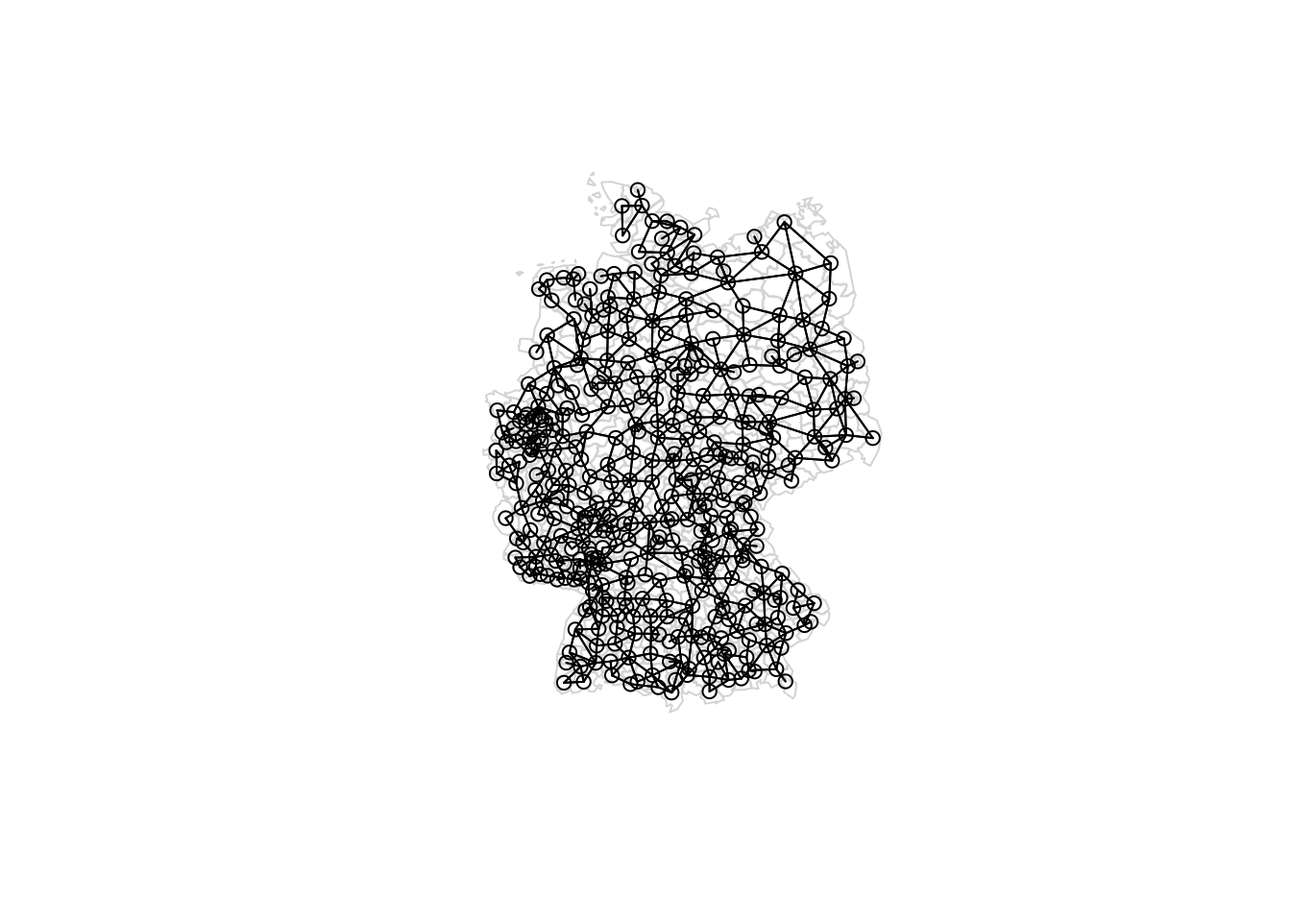
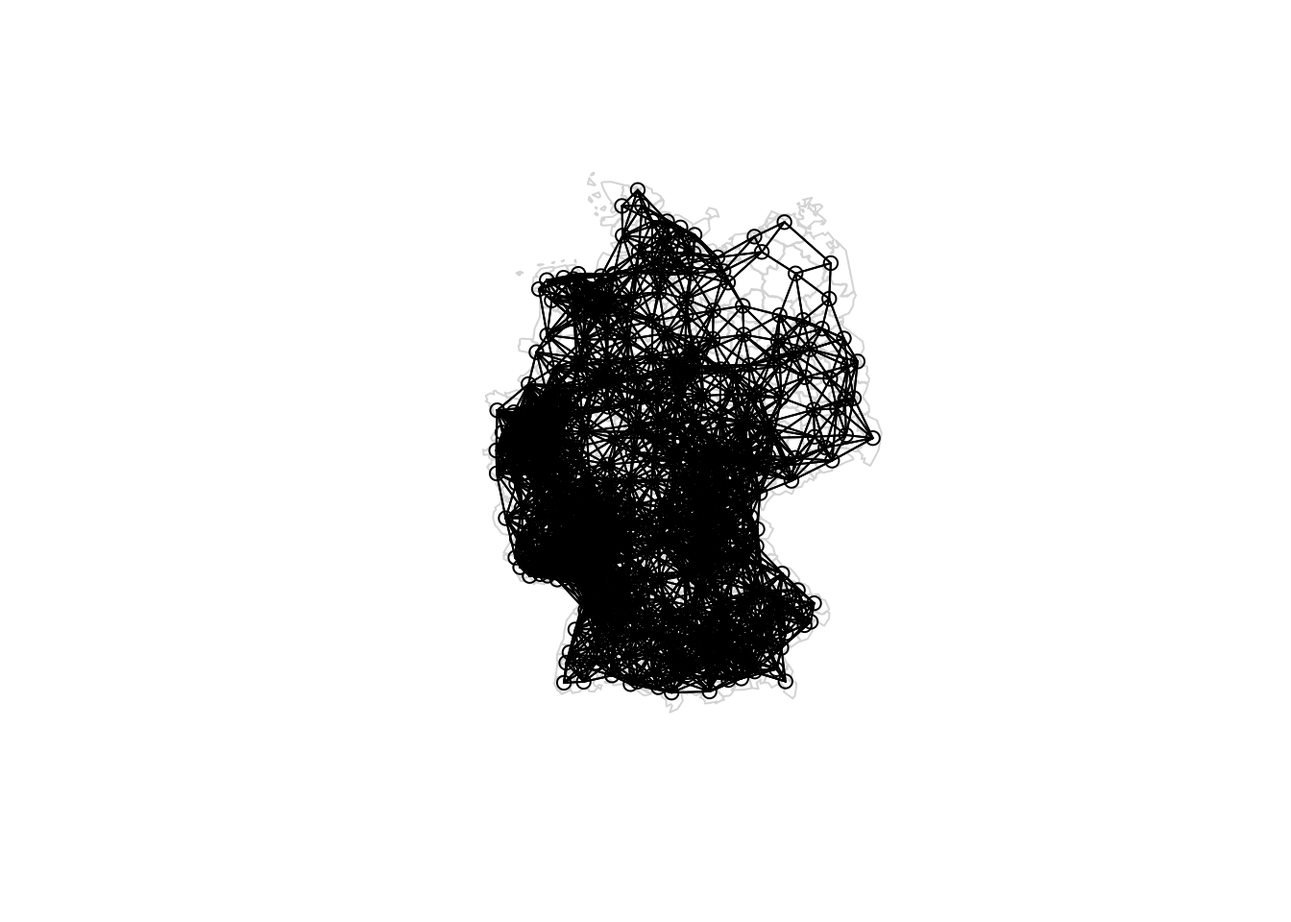
Deploying to gh-pages from @ gamlss-dev/gamlss2@70eed62983476a516c863f73c7ee43bc8b4943df 🚀

Changed region(s): [[0.375, 0.2188, 0.6875, 0.75]]

diff --git a/vignettes/spatial.html b/vignettes/spatial.html
@@ -402,6 +402,7 @@ div.csl-indent {
   <li><a href="#constructing-the-penalty-matrix" id="toc-constructing-the-penalty-matrix" class="nav-link" data-scroll-target="#constructing-the-penalty-matrix">Constructing the Penalty Matrix</a></li>
   <li><a href="#estimating-the-model" id="toc-estimating-the-model" class="nav-link" data-scroll-target="#estimating-the-model">Estimating the Model</a></li>
   <li><a href="#visualizing-the-estimated-effects" id="toc-visualizing-the-estimated-effects" class="nav-link" data-scroll-target="#visualizing-the-estimated-effects">Visualizing the Estimated Effects</a></li>
+  <li><a href="#prediction" id="toc-prediction" class="nav-link" data-scroll-target="#prediction">Prediction</a></li>
   </ul>
 </nav>
     </div>
@@ -482,17 +483,9 @@ div.csl-indent {
 package with: `install.packages('spDataLarge',
 repos='https://nowosad.github.io/drat/', type='source')`</code></pre>
 </div>
-<div class="sourceCode cell-code" id="cb6"><pre class="sourceCode r code-with-copy"><code class="sourceCode r"><span id="cb6-1"><a href="#cb6-1" aria-hidden="true" tabindex="-1"></a>nb <span class="ot">&lt;-</span> <span class="fu">poly2nb</span>(Germany)</span></code><button title="Copy to Clipboard" class="code-copy-button"><i class="bi"></i></button></pre></div>
-<div class="cell-output cell-output-stderr">
-<pre><code>Warning in poly2nb(Germany): some observations have no neighbours;
-if this seems unexpected, try increasing the snap argument.</code></pre>
-</div>
-<div class="cell-output cell-output-stderr">
-<pre><code>Warning in poly2nb(Germany): neighbour object has 4 sub-graphs;
-if this sub-graph count seems unexpected, try increasing the snap argument.</code></pre>
-</div>
-<div class="sourceCode cell-code" id="cb9"><pre class="sourceCode r code-with-copy"><code class="sourceCode r"><span id="cb9-1"><a href="#cb9-1" aria-hidden="true" tabindex="-1"></a><span class="fu">plot</span>(<span class="fu">st_geometry</span>(Germany), <span class="at">border =</span> <span class="st">"lightgray"</span>)</span>
-<span id="cb9-2"><a href="#cb9-2" aria-hidden="true" tabindex="-1"></a><span class="fu">plot.nb</span>(nb, <span class="fu">st_geometry</span>(Germany), <span class="at">add =</span> <span class="cn">TRUE</span>)</span></code><button title="Copy to Clipboard" class="code-copy-button"><i class="bi"></i></button></pre></div>
+<div class="sourceCode cell-code" id="cb6"><pre class="sourceCode r code-with-copy"><code class="sourceCode r"><span id="cb6-1"><a href="#cb6-1" aria-hidden="true" tabindex="-1"></a>nb <span class="ot">&lt;-</span> <span class="fu">dnearneigh</span>(<span class="fu">st_centroid</span>(<span class="fu">st_geometry</span>(Germany)), <span class="at">d1 =</span> <span class="dv">0</span>, <span class="at">d2 =</span> <span class="dv">80</span>)</span>
+<span id="cb6-2"><a href="#cb6-2" aria-hidden="true" tabindex="-1"></a><span class="fu">plot</span>(<span class="fu">st_geometry</span>(Germany), <span class="at">border =</span> <span class="st">"lightgray"</span>)</span>
+<span id="cb6-3"><a href="#cb6-3" aria-hidden="true" tabindex="-1"></a><span class="fu">plot.nb</span>(nb, <span class="fu">st_geometry</span>(Germany), <span class="at">add =</span> <span class="cn">TRUE</span>)</span></code><button title="Copy to Clipboard" class="code-copy-button"><i class="bi"></i></button></pre></div>
 <div class="cell-output cell-output-stderr">
 <pre><code>Warning in st_point_on_surface.sfc(coords): st_point_on_surface may not give
 correct results for longitude/latitude data</code></pre>
@@ -511,19 +504,19 @@ correct results for longitude/latitude data</code></pre>
 <h3 class="anchored" data-anchor-id="constructing-the-penalty-matrix">Constructing the Penalty Matrix</h3>
 <p>The penalty matrix defines the spatial penalties imposed by the Markov random field. The matrix is constructed based on the neighbor relationships defined earlier.</p>
 <div class="cell">
-<div class="sourceCode cell-code" id="cb11"><pre class="sourceCode r code-with-copy"><code class="sourceCode r"><span id="cb11-1"><a href="#cb11-1" aria-hidden="true" tabindex="-1"></a><span class="do">## compute final neighbor penalty matrix</span></span>
-<span id="cb11-2"><a href="#cb11-2" aria-hidden="true" tabindex="-1"></a>K <span class="ot">&lt;-</span> <span class="fu">nb2mat</span>(nb, <span class="at">style =</span> <span class="st">"B"</span>, <span class="at">zero.policy =</span> <span class="cn">TRUE</span>)</span>
-<span id="cb11-3"><a href="#cb11-3" aria-hidden="true" tabindex="-1"></a></span>
-<span id="cb11-4"><a href="#cb11-4" aria-hidden="true" tabindex="-1"></a><span class="do">## assign region names</span></span>
-<span id="cb11-5"><a href="#cb11-5" aria-hidden="true" tabindex="-1"></a><span class="fu">rownames</span>(K) <span class="ot">&lt;-</span> <span class="fu">colnames</span>(K) <span class="ot">&lt;-</span> <span class="fu">levels</span>(Germany<span class="sc">$</span>id)</span>
-<span id="cb11-6"><a href="#cb11-6" aria-hidden="true" tabindex="-1"></a></span>
-<span id="cb11-7"><a href="#cb11-7" aria-hidden="true" tabindex="-1"></a><span class="do">## set up final penalty matrix</span></span>
-<span id="cb11-8"><a href="#cb11-8" aria-hidden="true" tabindex="-1"></a>K <span class="ot">&lt;-</span> <span class="sc">-</span><span class="dv">1</span> <span class="sc">*</span> K</span>
-<span id="cb11-9"><a href="#cb11-9" aria-hidden="true" tabindex="-1"></a><span class="fu">diag</span>(K) <span class="ot">&lt;-</span> <span class="sc">-</span><span class="dv">1</span> <span class="sc">*</span> <span class="fu">rowSums</span>(K)</span>
-<span id="cb11-10"><a href="#cb11-10" aria-hidden="true" tabindex="-1"></a></span>
-<span id="cb11-11"><a href="#cb11-11" aria-hidden="true" tabindex="-1"></a><span class="do">## remove regions not in data</span></span>
-<span id="cb11-12"><a href="#cb11-12" aria-hidden="true" tabindex="-1"></a>i <span class="ot">&lt;-</span> <span class="fu">which</span>(<span class="fu">rownames</span>(K) <span class="sc">%in%</span> <span class="fu">levels</span>(storms<span class="sc">$</span>id))</span>
-<span id="cb11-13"><a href="#cb11-13" aria-hidden="true" tabindex="-1"></a>K <span class="ot">&lt;-</span> K[i, i]</span></code><button title="Copy to Clipboard" class="code-copy-button"><i class="bi"></i></button></pre></div>
+<div class="sourceCode cell-code" id="cb8"><pre class="sourceCode r code-with-copy"><code class="sourceCode r"><span id="cb8-1"><a href="#cb8-1" aria-hidden="true" tabindex="-1"></a><span class="do">## compute final neighbor penalty matrix</span></span>
+<span id="cb8-2"><a href="#cb8-2" aria-hidden="true" tabindex="-1"></a>K <span class="ot">&lt;-</span> <span class="fu">nb2mat</span>(nb, <span class="at">style =</span> <span class="st">"B"</span>, <span class="at">zero.policy =</span> <span class="cn">TRUE</span>)</span>
+<span id="cb8-3"><a href="#cb8-3" aria-hidden="true" tabindex="-1"></a></span>
+<span id="cb8-4"><a href="#cb8-4" aria-hidden="true" tabindex="-1"></a><span class="do">## assign region names</span></span>
+<span id="cb8-5"><a href="#cb8-5" aria-hidden="true" tabindex="-1"></a><span class="fu">rownames</span>(K) <span class="ot">&lt;-</span> <span class="fu">colnames</span>(K) <span class="ot">&lt;-</span> <span class="fu">levels</span>(Germany<span class="sc">$</span>id)</span>
+<span id="cb8-6"><a href="#cb8-6" aria-hidden="true" tabindex="-1"></a></span>
+<span id="cb8-7"><a href="#cb8-7" aria-hidden="true" tabindex="-1"></a><span class="do">## set up final penalty matrix</span></span>
+<span id="cb8-8"><a href="#cb8-8" aria-hidden="true" tabindex="-1"></a>K <span class="ot">&lt;-</span> <span class="sc">-</span><span class="dv">1</span> <span class="sc">*</span> K</span>
+<span id="cb8-9"><a href="#cb8-9" aria-hidden="true" tabindex="-1"></a><span class="fu">diag</span>(K) <span class="ot">&lt;-</span> <span class="sc">-</span><span class="dv">1</span> <span class="sc">*</span> <span class="fu">rowSums</span>(K)</span>
+<span id="cb8-10"><a href="#cb8-10" aria-hidden="true" tabindex="-1"></a></span>
+<span id="cb8-11"><a href="#cb8-11" aria-hidden="true" tabindex="-1"></a><span class="do">## remove regions not in data</span></span>
+<span id="cb8-12"><a href="#cb8-12" aria-hidden="true" tabindex="-1"></a>i <span class="ot">&lt;-</span> <span class="fu">which</span>(<span class="fu">rownames</span>(K) <span class="sc">%in%</span> <span class="fu">levels</span>(storms<span class="sc">$</span>id))</span>
+<span id="cb8-13"><a href="#cb8-13" aria-hidden="true" tabindex="-1"></a>K <span class="ot">&lt;-</span> K[i, i]</span></code><button title="Copy to Clipboard" class="code-copy-button"><i class="bi"></i></button></pre></div>
 </div>
 <p>The penalty matrix <code>K</code> is set up such that it reflects the neighborhood relationships between the regions. Each element of the matrix represents how strongly each region is connected to its neighbors. The diagonal entries represent the total number of neighbors for each region.</p>
 </section>
@@ -531,18 +524,18 @@ correct results for longitude/latitude data</code></pre>
 <h3 class="anchored" data-anchor-id="estimating-the-model">Estimating the Model</h3>
 <p>We now estimate the spatial count model using the Negative Binomial distribution (<code>NBI</code>). The model includes smooth functions of altitude, year, and an interaction between altitude and year. Spatial effects are incorporated using the <code>bs = "mrf"</code> option.</p>
 <div class="cell">
-<div class="sourceCode cell-code" id="cb12"><pre class="sourceCode r code-with-copy"><code class="sourceCode r"><span id="cb12-1"><a href="#cb12-1" aria-hidden="true" tabindex="-1"></a><span class="do">## estimate count model using the NBI family,</span></span>
-<span id="cb12-2"><a href="#cb12-2" aria-hidden="true" tabindex="-1"></a><span class="do">## model formula is</span></span>
-<span id="cb12-3"><a href="#cb12-3" aria-hidden="true" tabindex="-1"></a>f <span class="ot">&lt;-</span> <span class="er">~</span> <span class="fu">s</span>(alt) <span class="sc">+</span> <span class="fu">s</span>(year) <span class="sc">+</span> <span class="fu">s</span>(id, <span class="at">bs =</span> <span class="st">"mrf"</span>, <span class="at">xt =</span> <span class="fu">list</span>(<span class="st">"penalty"</span> <span class="ot">=</span> K)) <span class="sc">+</span></span>
-<span id="cb12-4"><a href="#cb12-4" aria-hidden="true" tabindex="-1"></a>  <span class="fu">te</span>(alt, year)</span>
-<span id="cb12-5"><a href="#cb12-5" aria-hidden="true" tabindex="-1"></a>f <span class="ot">&lt;-</span> <span class="fu">list</span>(<span class="fu">update</span>(f, counts <span class="sc">~</span> .), f)</span>
-<span id="cb12-6"><a href="#cb12-6" aria-hidden="true" tabindex="-1"></a></span>
-<span id="cb12-7"><a href="#cb12-7" aria-hidden="true" tabindex="-1"></a><span class="do">## estimate model using BIC for shrinkage parameter selection</span></span>
-<span id="cb12-8"><a href="#cb12-8" aria-hidden="true" tabindex="-1"></a>b <span class="ot">&lt;-</span> <span class="fu">gamlss2</span>(f, <span class="at">data =</span> storms, <span class="at">family =</span> NBI, <span class="at">criterion =</span> <span class="st">"BIC"</span>)</span></code><button title="Copy to Clipboard" class="code-copy-button"><i class="bi"></i></button></pre></div>
+<div class="sourceCode cell-code" id="cb9"><pre class="sourceCode r code-with-copy"><code class="sourceCode r"><span id="cb9-1"><a href="#cb9-1" aria-hidden="true" tabindex="-1"></a><span class="do">## estimate count model using the NBI family,</span></span>
+<span id="cb9-2"><a href="#cb9-2" aria-hidden="true" tabindex="-1"></a><span class="do">## model formula is</span></span>
+<span id="cb9-3"><a href="#cb9-3" aria-hidden="true" tabindex="-1"></a>f <span class="ot">&lt;-</span> <span class="er">~</span> <span class="fu">s</span>(alt) <span class="sc">+</span> <span class="fu">s</span>(year) <span class="sc">+</span> <span class="fu">s</span>(id, <span class="at">bs =</span> <span class="st">"mrf"</span>, <span class="at">xt =</span> <span class="fu">list</span>(<span class="st">"penalty"</span> <span class="ot">=</span> K)) <span class="sc">+</span></span>
+<span id="cb9-4"><a href="#cb9-4" aria-hidden="true" tabindex="-1"></a>  <span class="fu">te</span>(alt, year)</span>
+<span id="cb9-5"><a href="#cb9-5" aria-hidden="true" tabindex="-1"></a>f <span class="ot">&lt;-</span> <span class="fu">list</span>(<span class="fu">update</span>(f, counts <span class="sc">~</span> .), f)</span>
+<span id="cb9-6"><a href="#cb9-6" aria-hidden="true" tabindex="-1"></a></span>
+<span id="cb9-7"><a href="#cb9-7" aria-hidden="true" tabindex="-1"></a><span class="do">## estimate model using BIC for shrinkage parameter selection</span></span>
+<span id="cb9-8"><a href="#cb9-8" aria-hidden="true" tabindex="-1"></a>b <span class="ot">&lt;-</span> <span class="fu">gamlss2</span>(f, <span class="at">data =</span> storms, <span class="at">family =</span> NBI, <span class="at">criterion =</span> <span class="st">"BIC"</span>)</span></code><button title="Copy to Clipboard" class="code-copy-button"><i class="bi"></i></button></pre></div>
 </div>
 <div class="cell">
-<div class="sourceCode cell-code" id="cb13"><pre class="sourceCode r code-with-copy"><code class="sourceCode r"><span id="cb13-1"><a href="#cb13-1" aria-hidden="true" tabindex="-1"></a><span class="do">## model summary</span></span>
-<span id="cb13-2"><a href="#cb13-2" aria-hidden="true" tabindex="-1"></a><span class="fu">summary</span>(b)</span></code><button title="Copy to Clipboard" class="code-copy-button"><i class="bi"></i></button></pre></div>
+<div class="sourceCode cell-code" id="cb10"><pre class="sourceCode r code-with-copy"><code class="sourceCode r"><span id="cb10-1"><a href="#cb10-1" aria-hidden="true" tabindex="-1"></a><span class="do">## model summary</span></span>
+<span id="cb10-2"><a href="#cb10-2" aria-hidden="true" tabindex="-1"></a><span class="fu">summary</span>(b)</span></code><button title="Copy to Clipboard" class="code-copy-button"><i class="bi"></i></button></pre></div>
 <div class="cell-output cell-output-stdout">
 <pre><code>Call:
 gamlss2(formula = counts ~ s(alt) + s(year) + s(id, bs = "mrf", 
@@ -557,27 +550,27 @@ Parameter: mu
 ---
 Coefficients:
             Estimate Std. Error t value Pr(&gt;|t|)    
-(Intercept)  1.18744    0.01611    73.7   &lt;2e-16 ***
+(Intercept)  1.15816    0.01616   71.68   &lt;2e-16 ***
 ---
 Smooth terms:
-     s(alt) s(year)   s(id) te(alt,year)
-edf  8.8214  6.4077 83.6376       4.5552
+      s(alt)  s(year)    s(id) te(alt,year)
+edf   8.9102   6.3675 100.9338       4.5541
 *--------
 Parameter: sigma 
 ---
 Coefficients:
             Estimate Std. Error t value Pr(&gt;|t|)    
-(Intercept) -0.53577    0.02679     -20   &lt;2e-16 ***
+(Intercept) -0.61129    0.02754   -22.2   &lt;2e-16 ***
 ---
 Signif. codes:  0 '***' 0.001 '**' 0.01 '*' 0.05 '.' 0.1 ' ' 1
 ---
 Smooth terms:
      s(alt) s(year)   s(id) te(alt,year)
-edf  7.9434  1.7925 25.2432       6.6922
+edf  5.4313  1.9047 25.9703       3.0937
 *--------
-n = 3494 df =  147.09 res.df =  3346.91
-Deviance = 15821.9444 Null Dev. Red. = 17.89%
-AIC = 16116.1302 elapsed = 17.19sec</code></pre>
+n = 3494 df =  159.17 res.df =  3334.83
+Deviance = 15698.2644 Null Dev. Red. = 18.53%
+AIC = 16016.5958 elapsed =  8.35sec</code></pre>
 </div>
 </div>
 <p>Here, the spatial effect is modeled as an MRF smooth (<code>s(id, bs = "mrf")</code>), where the penalty matrix <code>K</code> enforces spatial structure based on neighboring stations. We use the Bayesian Information Criterion (BIC) to select the optimal smoothing parameters.</p>
@@ -586,7 +579,7 @@ AIC = 16116.1302 elapsed = 17.19sec</code></pre>
 <h3 class="anchored" data-anchor-id="visualizing-the-estimated-effects">Visualizing the Estimated Effects</h3>
 <p>Finally, we visualize the estimated effects from the fitted model.</p>
 <div class="cell">
-<div class="sourceCode cell-code" id="cb15"><pre class="sourceCode r code-with-copy"><code class="sourceCode r"><span id="cb15-1"><a href="#cb15-1" aria-hidden="true" tabindex="-1"></a><span class="fu">plot</span>(b)</span></code><button title="Copy to Clipboard" class="code-copy-button"><i class="bi"></i></button></pre></div>
+<div class="sourceCode cell-code" id="cb12"><pre class="sourceCode r code-with-copy"><code class="sourceCode r"><span id="cb12-1"><a href="#cb12-1" aria-hidden="true" tabindex="-1"></a><span class="fu">plot</span>(b)</span></code><button title="Copy to Clipboard" class="code-copy-button"><i class="bi"></i></button></pre></div>
 <div class="cell-output-display">
 <div>
 <figure class="figure">
@@ -596,6 +589,62 @@ AIC = 16116.1302 elapsed = 17.19sec</code></pre>
 </div>
 </div>
 <p>The plot shows the estimated smooth functions for altitude, year, and the spatial effect. These visualizations help us interpret how storm counts vary across space and time.</p>
+</section>
+<section id="prediction" class="level3">
+<h3 class="anchored" data-anchor-id="prediction">Prediction</h3>
+<p>First we predict the spatial effects on the scale of the predictors. Therefore, we set up a new data frame containing only the unique loactions.</p>
+<div class="cell">
+<div class="sourceCode cell-code" id="cb13"><pre class="sourceCode r code-with-copy"><code class="sourceCode r"><span id="cb13-1"><a href="#cb13-1" aria-hidden="true" tabindex="-1"></a>nd <span class="ot">&lt;-</span> <span class="fu">unique</span>(storms[, <span class="st">"id"</span>, <span class="at">drop =</span> <span class="cn">FALSE</span>])</span>
+<span id="cb13-2"><a href="#cb13-2" aria-hidden="true" tabindex="-1"></a></span>
+<span id="cb13-3"><a href="#cb13-3" aria-hidden="true" tabindex="-1"></a><span class="do">## set some dummy values, not needed when predicting single model term</span></span>
+<span id="cb13-4"><a href="#cb13-4" aria-hidden="true" tabindex="-1"></a>nd<span class="sc">$</span>alt <span class="ot">&lt;-</span> <span class="dv">1000</span></span>
+<span id="cb13-5"><a href="#cb13-5" aria-hidden="true" tabindex="-1"></a>nd<span class="sc">$</span>year <span class="ot">&lt;-</span> <span class="dv">2020</span></span>
+<span id="cb13-6"><a href="#cb13-6" aria-hidden="true" tabindex="-1"></a></span>
+<span id="cb13-7"><a href="#cb13-7" aria-hidden="true" tabindex="-1"></a><span class="do">## prediction for the mu predictor</span></span>
+<span id="cb13-8"><a href="#cb13-8" aria-hidden="true" tabindex="-1"></a>nd<span class="sc">$</span>fmu <span class="ot">&lt;-</span> <span class="fu">predict</span>(b, <span class="at">newdata =</span> nd,</span>
+<span id="cb13-9"><a href="#cb13-9" aria-hidden="true" tabindex="-1"></a>  <span class="at">model =</span> <span class="st">"mu"</span>, <span class="at">term =</span> <span class="st">"s(id)"</span>,</span>
+<span id="cb13-10"><a href="#cb13-10" aria-hidden="true" tabindex="-1"></a>  <span class="at">type =</span> <span class="st">"link"</span>)</span>
+<span id="cb13-11"><a href="#cb13-11" aria-hidden="true" tabindex="-1"></a></span>
+<span id="cb13-12"><a href="#cb13-12" aria-hidden="true" tabindex="-1"></a><span class="do">## same for sigma</span></span>
+<span id="cb13-13"><a href="#cb13-13" aria-hidden="true" tabindex="-1"></a>nd<span class="sc">$</span>fsigma <span class="ot">&lt;-</span> <span class="fu">predict</span>(b, <span class="at">newdata =</span> nd,</span>
+<span id="cb13-14"><a href="#cb13-14" aria-hidden="true" tabindex="-1"></a>  <span class="at">model =</span> <span class="st">"sigma"</span>, <span class="at">term =</span> <span class="st">"s(id)"</span>,</span>
+<span id="cb13-15"><a href="#cb13-15" aria-hidden="true" tabindex="-1"></a>  <span class="at">type =</span> <span class="st">"link"</span>)</span>
+<span id="cb13-16"><a href="#cb13-16" aria-hidden="true" tabindex="-1"></a></span>
+<span id="cb13-17"><a href="#cb13-17" aria-hidden="true" tabindex="-1"></a><span class="do">## add fitted values to map of Germany</span></span>
+<span id="cb13-18"><a href="#cb13-18" aria-hidden="true" tabindex="-1"></a>m <span class="ot">&lt;-</span> <span class="fu">merge</span>(Germany, nd, <span class="at">by =</span> <span class="st">"id"</span>, <span class="at">all.x =</span> <span class="cn">TRUE</span>)</span>
+<span id="cb13-19"><a href="#cb13-19" aria-hidden="true" tabindex="-1"></a></span>
+<span id="cb13-20"><a href="#cb13-20" aria-hidden="true" tabindex="-1"></a><span class="do">## plot spatial effects</span></span>
+<span id="cb13-21"><a href="#cb13-21" aria-hidden="true" tabindex="-1"></a><span class="fu">library</span>(<span class="st">"ggplot2"</span>)</span>
+<span id="cb13-22"><a href="#cb13-22" aria-hidden="true" tabindex="-1"></a><span class="fu">library</span>(<span class="st">"colorspace"</span>)</span>
+<span id="cb13-23"><a href="#cb13-23" aria-hidden="true" tabindex="-1"></a><span class="fu">ggplot</span>(m) <span class="sc">+</span> <span class="fu">geom_sf</span>(<span class="fu">aes</span>(<span class="at">fill =</span> fmu)) <span class="sc">+</span></span>
+<span id="cb13-24"><a href="#cb13-24" aria-hidden="true" tabindex="-1"></a><span class="fu">scale_fill_continuous_diverging</span>(<span class="st">"Blue-Red 3"</span>) <span class="sc">+</span> <span class="fu">theme_bw</span>()</span></code><button title="Copy to Clipboard" class="code-copy-button"><i class="bi"></i></button></pre></div>
+<div class="cell-output-display">
+<div>
+<figure class="figure">
+<p><img src="spatial_files/figure-html/unnamed-chunk-8-1.png" class="img-fluid figure-img" width="672"></p>
+</figure>
+</div>
+</div>
+<div class="sourceCode cell-code" id="cb14"><pre class="sourceCode r code-with-copy"><code class="sourceCode r"><span id="cb14-1"><a href="#cb14-1" aria-hidden="true" tabindex="-1"></a><span class="do">## note that because of the discrete spatial effect,</span></span>
+<span id="cb14-2"><a href="#cb14-2" aria-hidden="true" tabindex="-1"></a><span class="do">## there are a lot of NAs, therefore, we need to compute</span></span>
+<span id="cb14-3"><a href="#cb14-3" aria-hidden="true" tabindex="-1"></a><span class="do">## predictions in such regions by averaging using the neighbors</span></span>
+<span id="cb14-4"><a href="#cb14-4" aria-hidden="true" tabindex="-1"></a><span class="do">## of a region. we use the neighbour list object nb to compute</span></span>
+<span id="cb14-5"><a href="#cb14-5" aria-hidden="true" tabindex="-1"></a><span class="do">## the predictions, this is iterated.</span></span>
+<span id="cb14-6"><a href="#cb14-6" aria-hidden="true" tabindex="-1"></a><span class="cf">while</span>(<span class="fu">any</span>(<span class="fu">is.na</span>(m<span class="sc">$</span>fmu))) {</span>
+<span id="cb14-7"><a href="#cb14-7" aria-hidden="true" tabindex="-1"></a>  m<span class="sc">$</span>fmu <span class="ot">&lt;-</span> <span class="fu">sapply</span>(nb, <span class="cf">function</span>(i) <span class="fu">mean</span>(m<span class="sc">$</span>fmu[i], <span class="at">na.rm =</span> <span class="cn">TRUE</span>))</span>
+<span id="cb14-8"><a href="#cb14-8" aria-hidden="true" tabindex="-1"></a>}</span>
+<span id="cb14-9"><a href="#cb14-9" aria-hidden="true" tabindex="-1"></a></span>
+<span id="cb14-10"><a href="#cb14-10" aria-hidden="true" tabindex="-1"></a><span class="do">## plot final spatial effect</span></span>
+<span id="cb14-11"><a href="#cb14-11" aria-hidden="true" tabindex="-1"></a><span class="fu">ggplot</span>(m) <span class="sc">+</span> <span class="fu">geom_sf</span>(<span class="fu">aes</span>(<span class="at">fill =</span> fmu)) <span class="sc">+</span></span>
+<span id="cb14-12"><a href="#cb14-12" aria-hidden="true" tabindex="-1"></a><span class="fu">scale_fill_continuous_diverging</span>(<span class="st">"Blue-Red 3"</span>) <span class="sc">+</span> <span class="fu">theme_bw</span>()</span></code><button title="Copy to Clipboard" class="code-copy-button"><i class="bi"></i></button></pre></div>
+<div class="cell-output-display">
+<div>
+<figure class="figure">
+<p><img src="spatial_files/figure-html/unnamed-chunk-8-2.png" class="img-fluid figure-img" width="672"></p>
+</figure>
+</div>
+</div>
+</div>
 
 
 

diff --git a/man/prodist.gamlss2.html b/man/prodist.gamlss2.html
@@ -519,10 +519,10 @@ GAMLSS-RS iteration  4: Global Deviance = 405.6976 eps = 0.000000     </code></p
 <div class="sourceCode cell-code" id="cb16"><pre class="sourceCode r code-with-copy"><code class="sourceCode r"><span id="cb16-1"><a href="#cb16-1" aria-hidden="true" tabindex="-1"></a><span class="do">## simulate random numbers</span></span>
 <span id="cb16-2"><a href="#cb16-2" aria-hidden="true" tabindex="-1"></a><span class="fu">random</span>(d, <span class="dv">5</span>)</span></code><button title="Copy to Clipboard" class="code-copy-button"><i class="bi"></i></button></pre></div>
 <div class="cell-output cell-output-stdout">
-<pre><code>        r_1        r_2      r_3      r_4       r_5
-1  24.35894   4.426222 12.52812 20.29395  27.35706
-2  54.78453  40.524209 45.85084 58.95648  21.49174
-3 103.57876 114.620335 93.28334 88.10368 103.27144</code></pre>
+<pre><code>       r_1      r_2      r_3       r_4      r_5
+1 35.87914 25.52957 38.84803  32.51570 19.84790
+2 29.91154 69.16498 65.58149  35.77074 51.37150
+3 54.89185 74.97925 66.07344 142.72458 77.88473</code></pre>
 </div>
 <div class="sourceCode cell-code" id="cb18"><pre class="sourceCode r code-with-copy"><code class="sourceCode r"><span id="cb18-1"><a href="#cb18-1" aria-hidden="true" tabindex="-1"></a><span class="do">## density and distribution</span></span>
 <span id="cb18-2"><a href="#cb18-2" aria-hidden="true" tabindex="-1"></a><span class="fu">pdf</span>(d, <span class="dv">50</span> <span class="sc">*</span> <span class="sc">-</span><span class="dv">2</span><span class="sc">:</span><span class="dv">2</span>)</span></code><button title="Copy to Clipboard" class="code-copy-button"><i class="bi"></i></button></pre></div>

diff --git a/man/gamlss2.html b/man/gamlss2.html
@@ -611,7 +611,7 @@ edf 1.0042
 *--------
 n = 610 df =  13.12 res.df =  596.88
 Deviance = 4770.1554 Null Dev. Red. = 33.39%
-AIC = 4796.3966 elapsed =  0.78sec</code></pre>
+AIC = 4796.3966 elapsed =  0.80sec</code></pre>
 </div>
 <div class="sourceCode cell-code" id="cb5"><pre class="sourceCode r code-with-copy"><code class="sourceCode r"><span id="cb5-1"><a href="#cb5-1" aria-hidden="true" tabindex="-1"></a><span class="do">## plot estimated effects</span></span>
 <span id="cb5-2"><a href="#cb5-2" aria-hidden="true" tabindex="-1"></a><span class="fu">plot</span>(b, <span class="at">which =</span> <span class="st">"effects"</span>)</span></code><button title="Copy to Clipboard" class="code-copy-button"><i class="bi"></i></button></pre></div>
